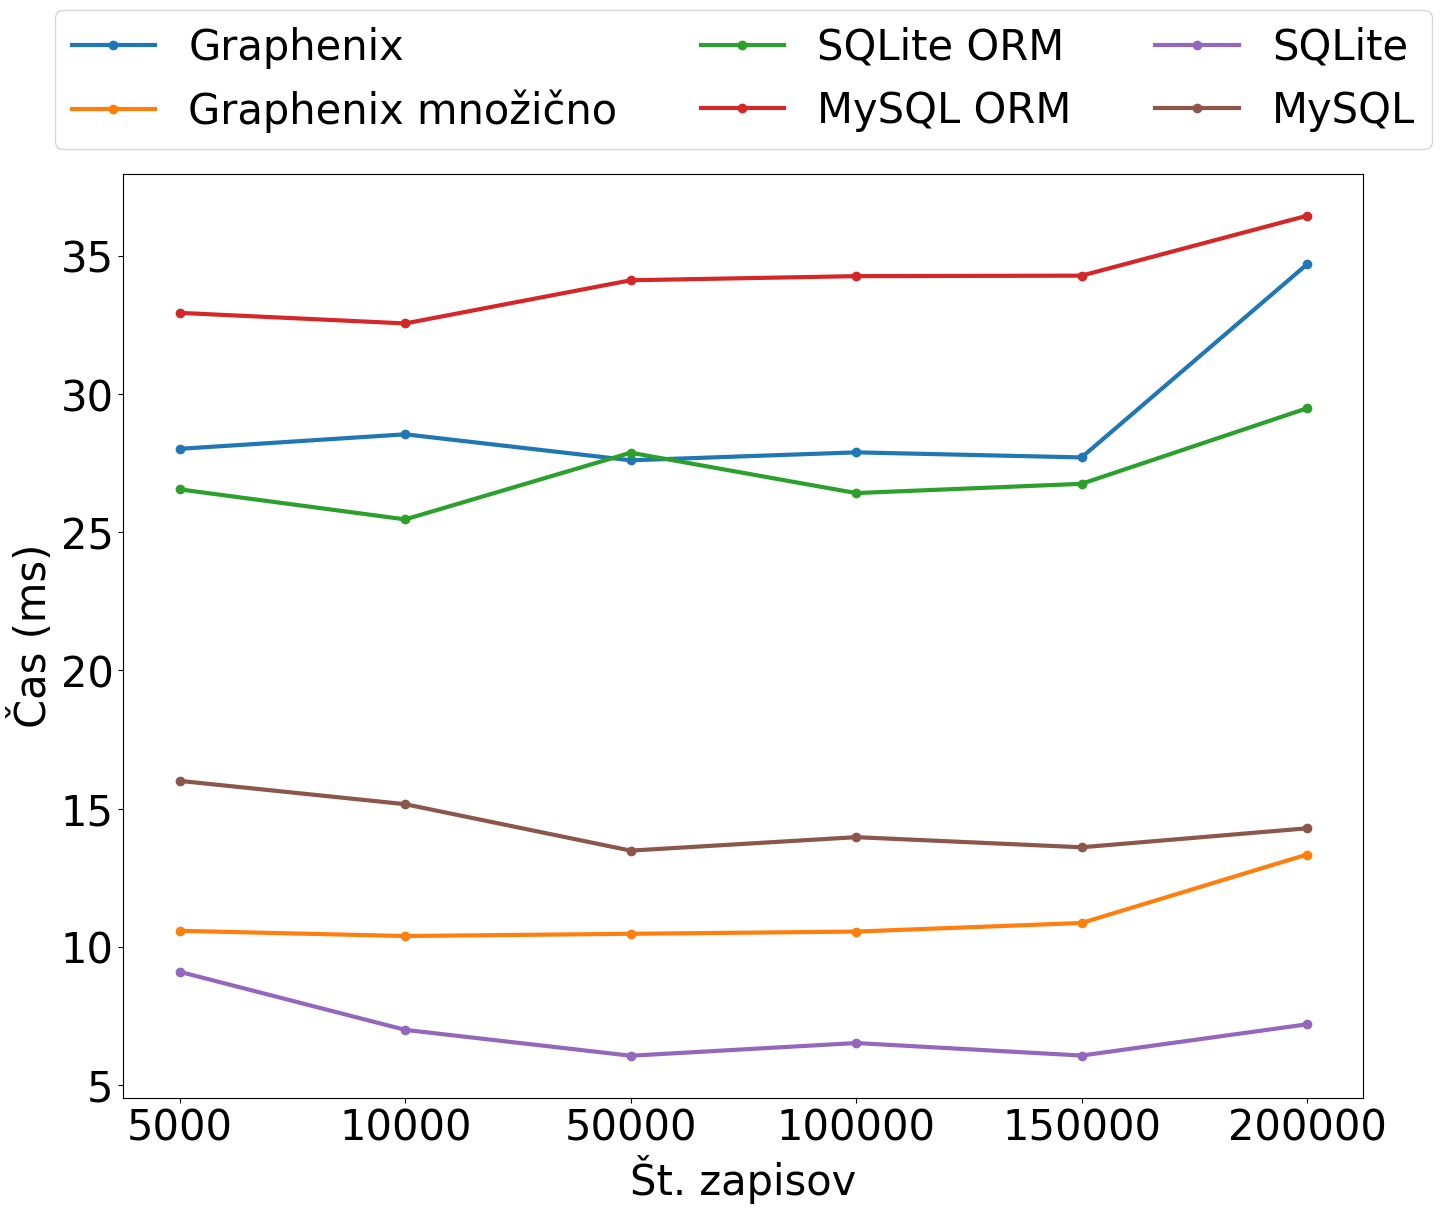
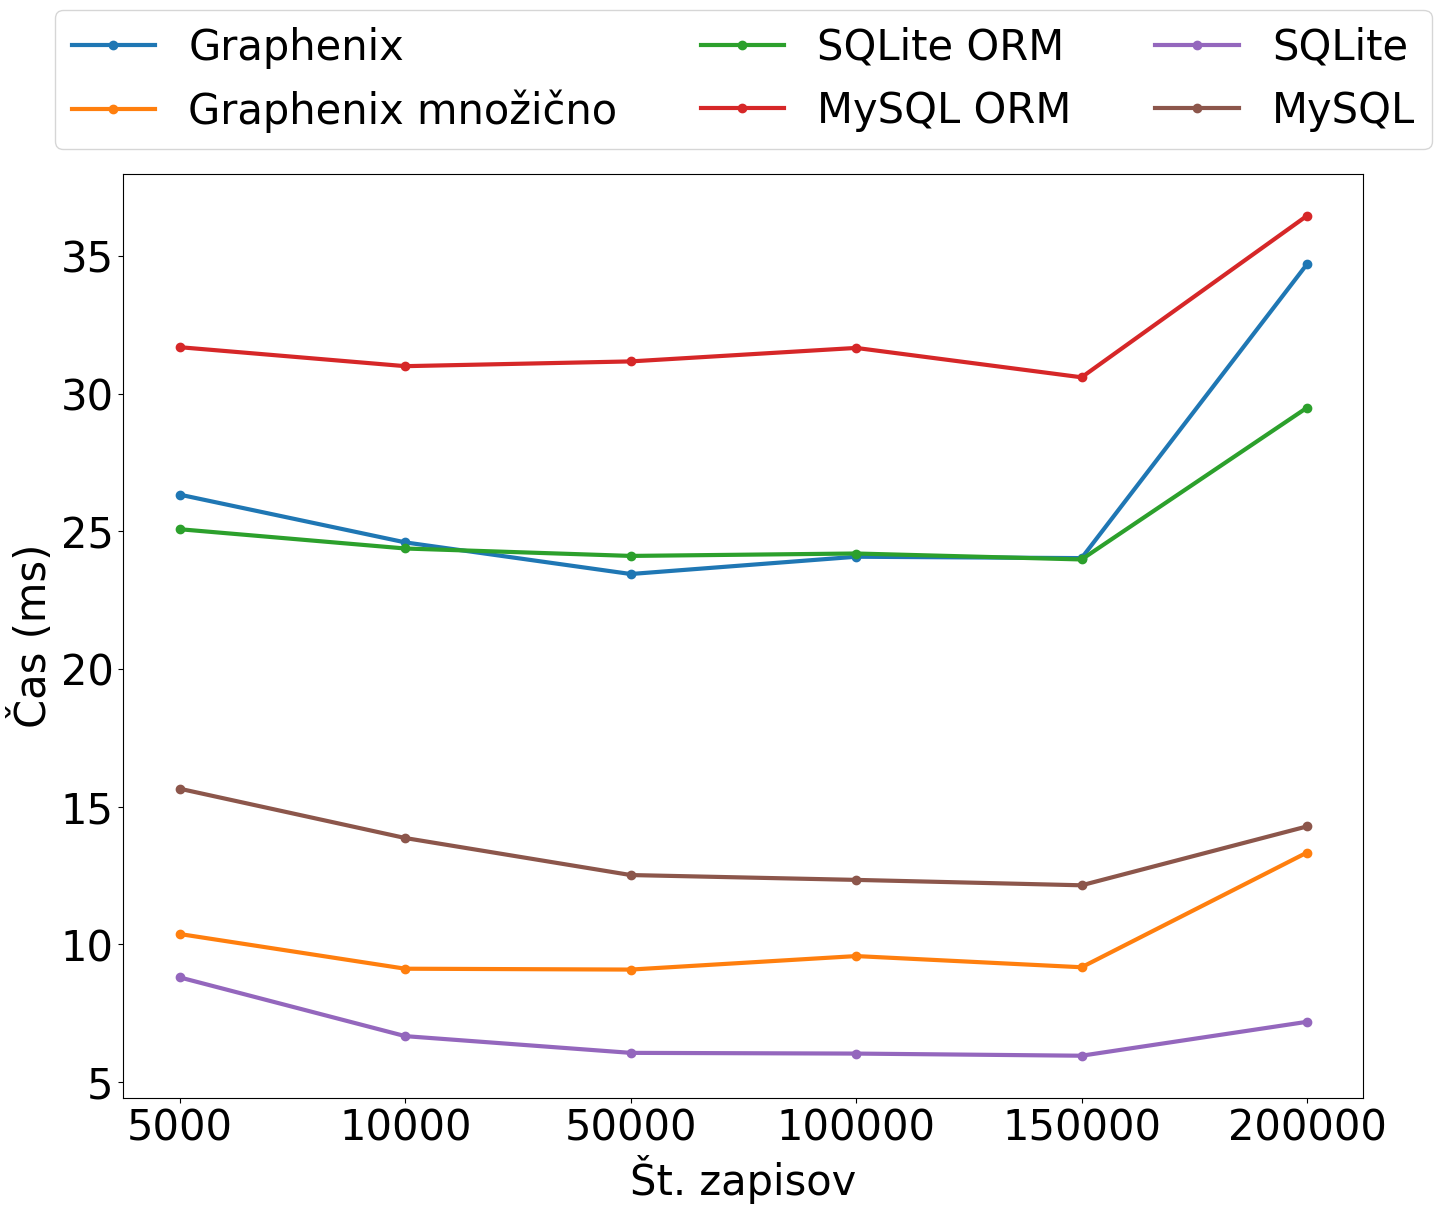
re-ran analysis without graphenix indexing

diff --git a/analysis/diffdistinsert/graphenix_bulk_index.py b/analysis/diffdistinsert/graphenix_bulk_index.py
@@ -9,7 +9,7 @@ class User(Model):
     first_name = Field.String(size=15)
     last_name = Field.String(size=15)
     email = Field.String(size=25)
-    points = Field.Int().as_index()
+    points = Field.Int()
     is_admin = Field.Bool()
     created_at = Field.DateTime()
 

diff --git a/analysis/indexinsert/graphenix.py b/analysis/indexinsert/graphenix.py
@@ -9,7 +9,7 @@ class User(Model):
     first_name = Field.String(size=15)
     last_name = Field.String(size=15)
     email = Field.String(size=25)
-    points = Field.Int().as_index()
+    points = Field.Int()
     is_admin = Field.Bool()
     created_at = Field.DateTime()
 

diff --git a/analysis/indexinsert/graphenix_bulk.py b/analysis/indexinsert/graphenix_bulk.py
@@ -9,7 +9,7 @@ class User(Model):
     first_name = Field.String(size=15)
     last_name = Field.String(size=15)
     email = Field.String(size=25)
-    points = Field.Int().as_index()
+    points = Field.Int()
     is_admin = Field.Bool()
     created_at = Field.DateTime()
 
